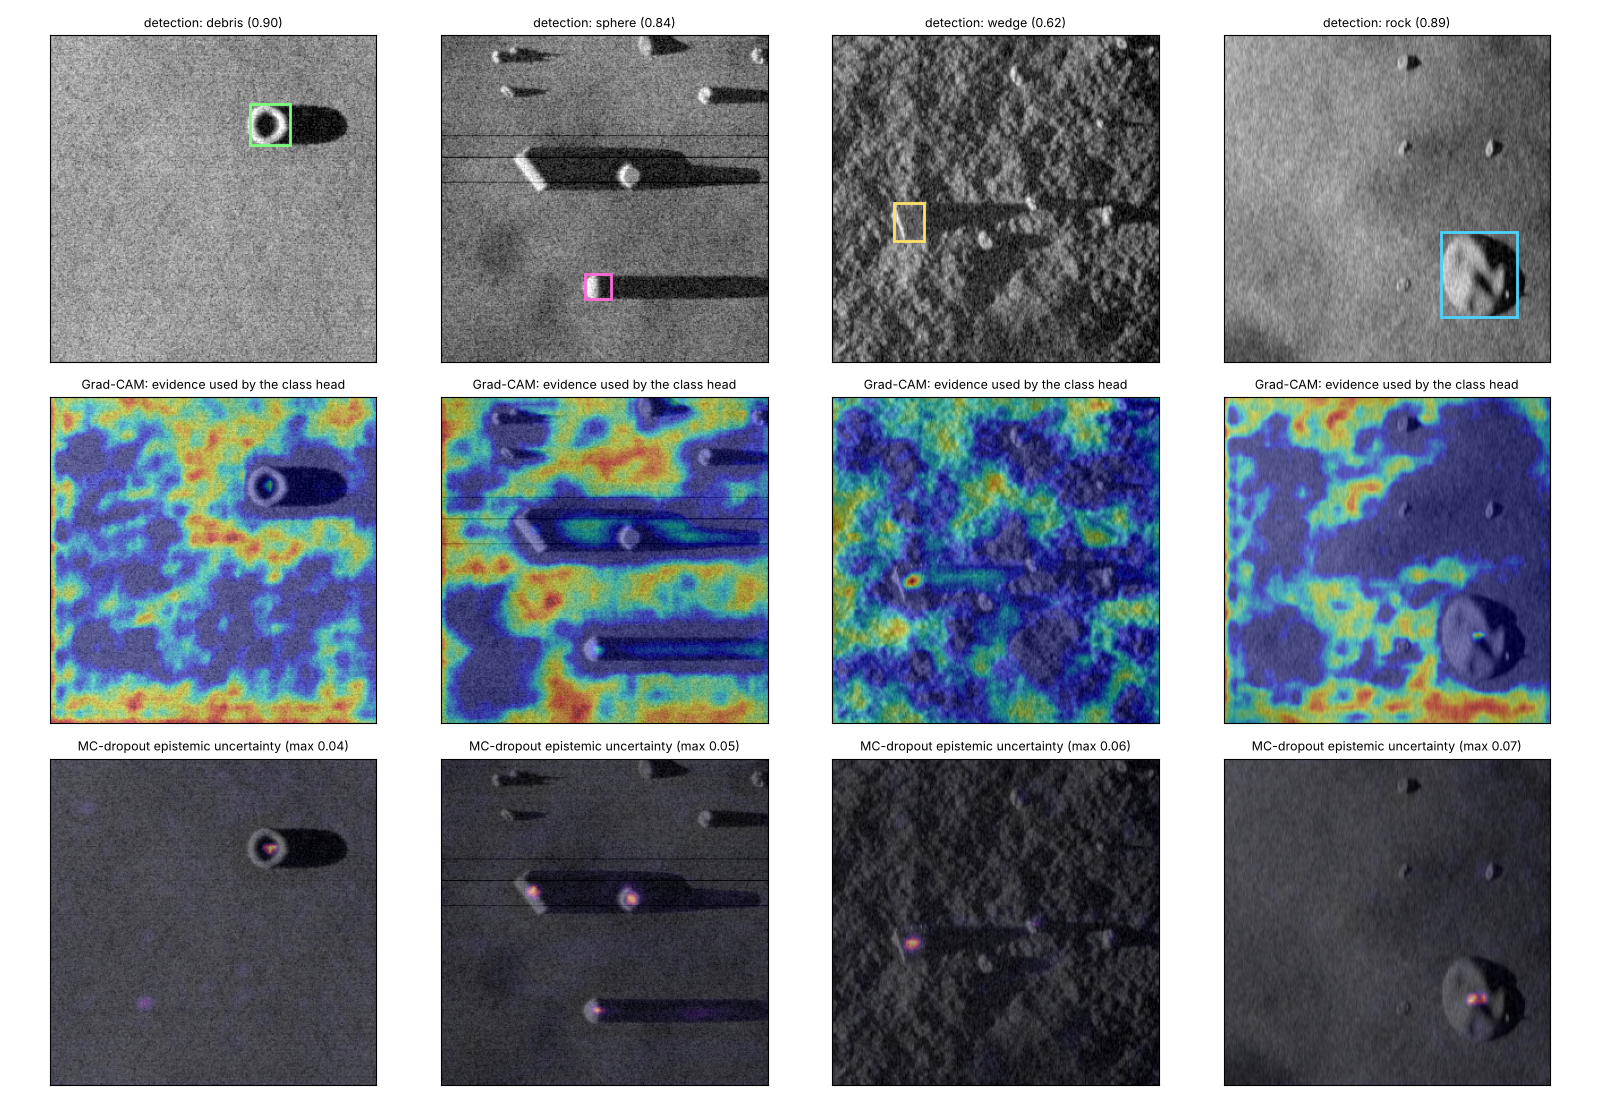
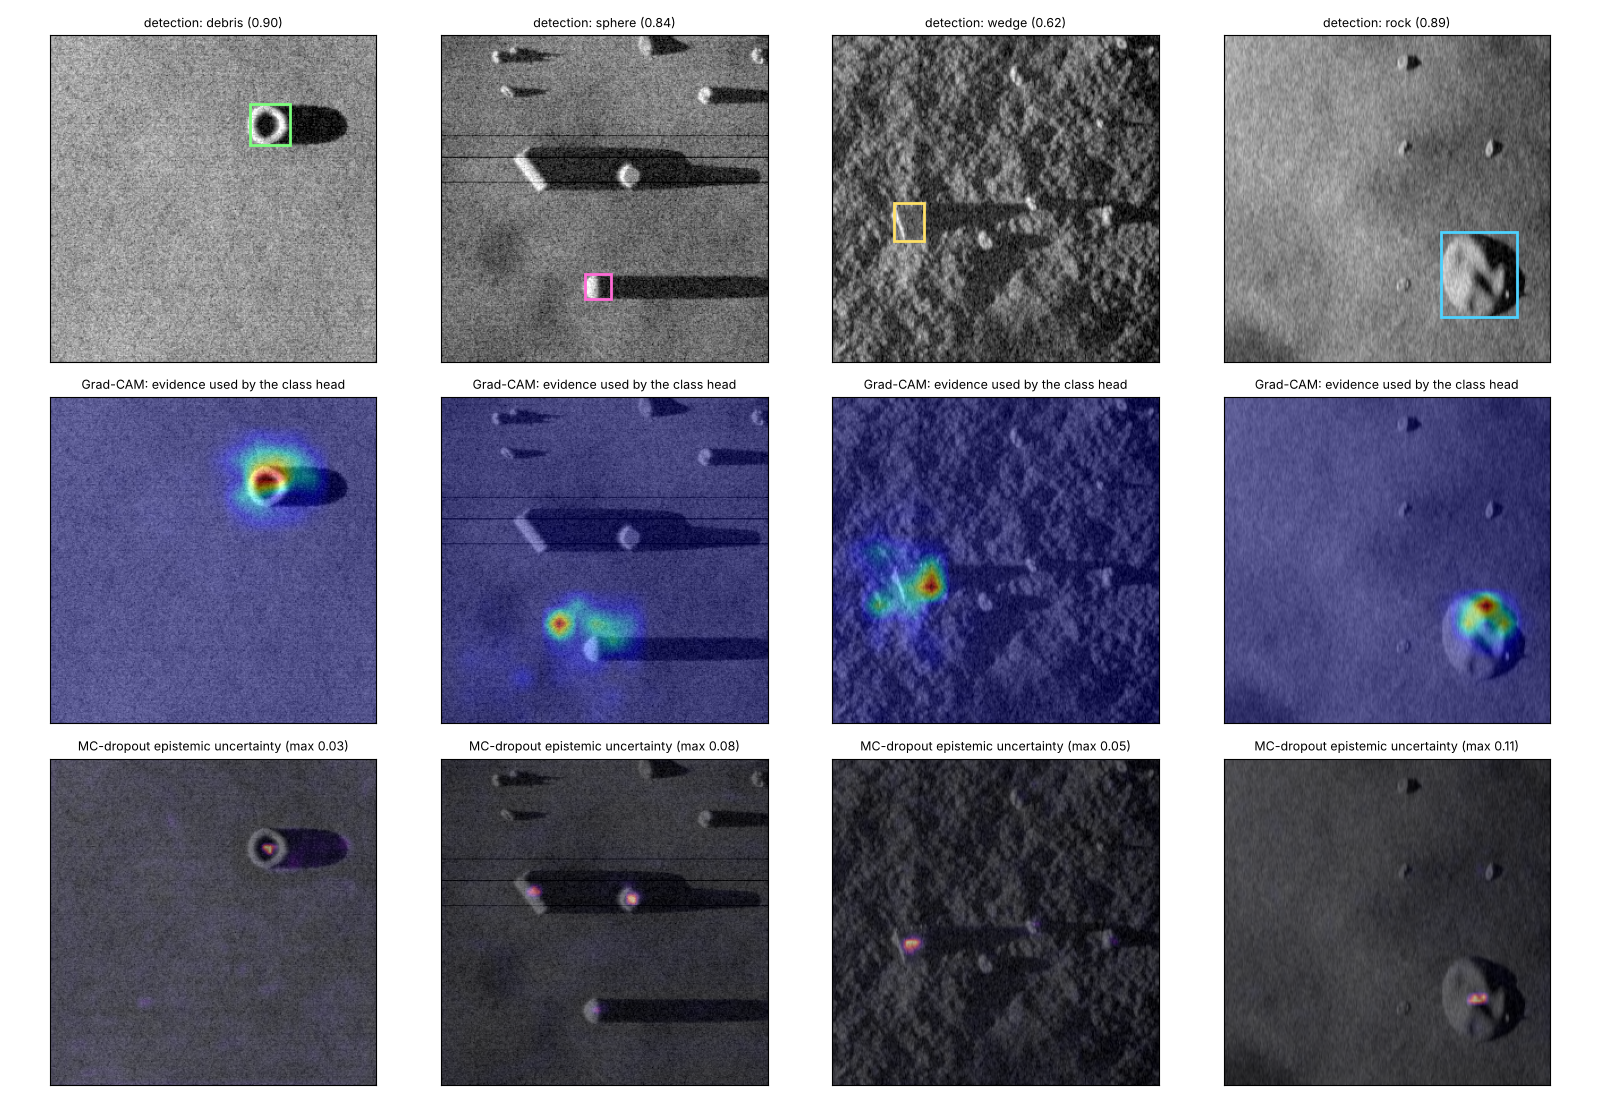
LayerCAM explanations for the dense detection head; refresh explainability figure
Claude-Session: https://claude.ai/code/session_01GVcA4kAFXtfkHbBPyjCxN2

Changed region(s): [[0.0312, 0.34, 0.9688, 0.68], [0.1562, 0.7418, 0.2188, 0.8036], [0.4062, 0.8964, 0.4688, 0.9273]]

diff --git a/seabed_sentinel/viz/gradcam.py b/seabed_sentinel/viz/gradcam.py
@@ -1,8 +1,15 @@
-"""Grad-CAM for the detector's class heat-map head.
+"""Class-activation explanations for the detector's heat-map head.
 
 Explains *which pixels* drove a detection: for sonar this typically reveals
 whether the network used the acoustic highlight, the shadow, or (undesirably)
 background texture. Useful evidence when presenting ATR output to an operator.
+
+Implementation note: classic Grad-CAM averages the gradient over space to get
+one weight per channel, which suits image-level classifiers. For a *dense*
+detection head the gradient of one centre logit is spatially localised, so we
+use the LayerCAM weighting (per-pixel, per-channel ReLU(gradient) × activation)
+on an intermediate encoder stage whose receptive field covers highlight and
+shadow (stride 16 by default).
 """
 from __future__ import annotations
 
@@ -16,7 +23,7 @@ import torch.nn.functional as F
 class GradCAM:
     def __init__(self, model: torch.nn.Module, layer: Optional[torch.nn.Module] = None):
         self.model = model
-        self.layer = layer or model.decoder
+        self.layer = layer if layer is not None else model.encoder.stages[2]   # stride-16 features
         self._act = None
         self._grad = None
         self.layer.register_forward_hook(self._fwd)
@@ -29,7 +36,7 @@ class GradCAM:
     def _bwd(self, g):
         self._grad = g
 
-    def __call__(self, image: torch.Tensor, class_id: int, center_xy: Tuple[int, int], radius: int = 2) -> np.ndarray:
+    def __call__(self, image: torch.Tensor, class_id: int, center_xy: Tuple[int, int], radius: int = 1) -> np.ndarray:
         """image: [1,1,H,W]. Returns a [H,W] CAM in [0,1] for the given class at the given
         heat-map centre (input-pixel coordinates)."""
         self.model.eval()
@@ -41,8 +48,8 @@ class GradCAM:
         x0, x1 = max(cx - radius, 0), min(cx + radius + 1, hm.shape[1])
         score = hm[y0:y1, x0:x1].sum()
         score.backward()
-        w = self._grad.mean(dim=(2, 3), keepdim=True)
-        cam = F.relu((w * self._act).sum(1, keepdim=True))
+        cam = (F.relu(self._grad) * self._act).sum(1, keepdim=True)        # LayerCAM weighting
+        cam = F.relu(cam)
         cam = F.interpolate(cam, size=image.shape[-2:], mode="bilinear", align_corners=False)[0, 0]
         cam = cam.detach().cpu().numpy()
         return (cam - cam.min()) / (cam.max() - cam.min() + 1e-9)

diff --git a/scripts/make_figures.py b/scripts/make_figures.py
@@ -187,7 +187,7 @@ def fig_detections(run_dir, data_root, out, n=8):
         axes[0, k].set_title(f"detection: {CLASSES[c]} ({s:.2f})", fontsize=9)
         axes[1, k].imshow(img, cmap="gray", origin="lower", vmin=0, vmax=1)
         axes[1, k].imshow(heat, cmap="jet", alpha=0.45, origin="lower")
-        axes[1, k].set_title("Grad-CAM: evidence used by the class head", fontsize=9)
+        axes[1, k].set_title("LayerCAM (stride-16 features): evidence used by the class head", fontsize=9)
         u = torch.nn.functional.interpolate(unc[None], size=img.shape, mode="bilinear", align_corners=False)[0, 0].numpy()
         axes[2, k].imshow(img, cmap="gray", origin="lower", vmin=0, vmax=1)
         axes[2, k].imshow(u, cmap="magma", alpha=0.55, origin="lower", vmin=0, vmax=max(u.max(), 1e-3))

diff --git a/README.md b/README.md
@@ -44,7 +44,7 @@ constraint, DPCA sway recovery).
 | **Full-physics SAS chain** | 337 kHz / 40 kHz LFM, 16 × 3.75 cm receiver array (public MINSAS-class figures). Pulse-level echo synthesis with element directivity, matched filtering, time-domain back-projection. Measured point response **<!--R:psf_along_20-->1.91<!--/R--> cm along-track at 20 m and <!--R:psf_along_45-->1.95<!--/R--> cm at 45 m** against the theoretical *d/2* = 1.875 cm: range-independent resolution, the defining property of SAS. |
 | **DPCA micronavigation** | Redundant phase-centre cross-correlation recovers a 3 cm platform sway with **<!--R:dpca_rms-->0.09<!--/R--> mm RMS error** and refocuses the image (contrast <!--R:contrast_nom-->1.65<!--/R--> → <!--R:contrast_dpca-->2.10<!--/R-->, truth <!--R:contrast_true-->2.12<!--/R-->). |
 | **Physics-based data generator** | Lambert + specular backscatter from the local grazing angle, *exact* ray-cast acoustic shadows, coherent speckle convolved with the system PSF, range-dependent SNR / TVG residuals, ping drop-outs, striping and motion smear. 3 300 labelled 288² tiles (3 cm pixels) in ~10 min on 4 cores, with highlight **and** shadow boxes, semantic masks, aspect, range, grazing and burial. |
-| **Shadow-aware ATR** | 2.1 M-parameter anchor-free (CenterNet-style) detector with an auxiliary highlight / shadow segmentation head, sonar-specific augmentation (along-track flips only), MC-dropout uncertainty, Grad-CAM. **mAP@0.5 = <!--R:map50-->…<!--/R-->** on <!--R:n_test-->600<!--/R--> test tiles; mine-hunting PD <!--R:pd_milco-->…<!--/R--> at <!--R:fa_milco-->…<!--/R--> false alarms / km². |
+| **Shadow-aware ATR** | 2.1 M-parameter anchor-free (CenterNet-style) detector with an auxiliary highlight / shadow segmentation head, sonar-specific augmentation (along-track flips only), MC-dropout uncertainty, LayerCAM explanations. **mAP@0.5 = <!--R:map50-->…<!--/R-->** on <!--R:n_test-->600<!--/R--> test tiles; mine-hunting PD <!--R:pd_milco-->…<!--/R--> at <!--R:fa_milco-->…<!--/R--> false alarms / km². |
 | **MCM-standard evaluation** | PD vs FA/km² curves, MILCO vs NOMBO confusion, recall by range / grazing / burial / aspect, aspect-binned confusion for planning, calibration (ECE <!--R:ece-->…<!--/R-->). |
 | **Label efficiency** | Masked-autoencoder pre-training on unlabelled tiles: with 10 % of labels, mAP@0.5 <!--R:map_scratch10-->…<!--/R--> from scratch vs **<!--R:map_mae10-->…<!--/R-->** with the pre-trained encoder. |
 | **Real-time deployment** | ONNX export with parity check; `StreamingATR` consumes along-track strips with overlap buffering and cross-tile NMS. **<!--R:tiles_s-->…<!--/R--> tiles/s (<!--R:ms_tile-->…<!--/R--> ms/tile) on 4 CPU threads = <!--R:rt_factor-->…<!--/R-->× real time** for a 2 × 200 m swath at 10 knots (2.3 Mpixel/s at 3 cm). Contacts exported as GeoJSON from towfish navigation. |
@@ -68,7 +68,7 @@ constraint, DPCA sway recovery).
 <p align="center"><img src="assets/detections_test.png" width="100%"></p>
 
 <p align="center"><img src="assets/explainability.png" width="100%"></p>
-<p align="center"><em>Grad-CAM shows the class head using the highlight <b>and</b> the shadow; MC-dropout uncertainty concentrates on ambiguous shapes and clutter.</em></p>
+<p align="center"><em>LayerCAM (a Grad-CAM variant for dense heads) shows the class head using the highlight <b>and</b> the shadow root; MC-dropout uncertainty concentrates on the object edges and ambiguous clutter.</em></p>
 
 ### Operating characteristics
 
